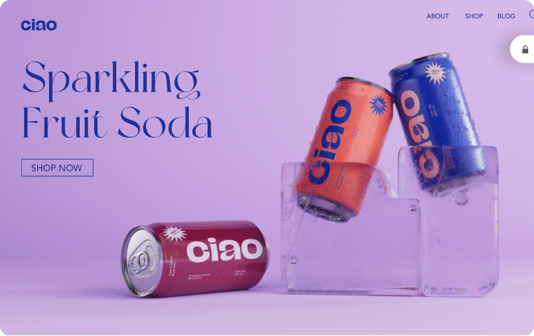
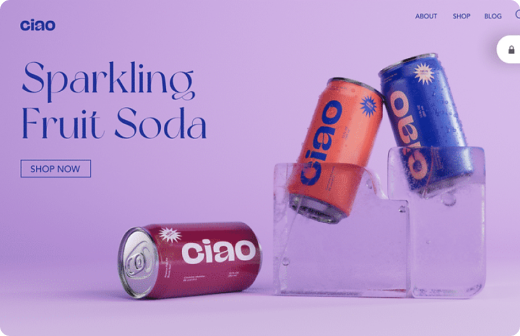
detail page changes

diff --git a/src/App.scss b/src/App.scss
@@ -212,7 +212,7 @@ h1,h2,h3,h4,h5,h6{
 
 .slick-slide img {
   display: block;
-  height: 260px;
+  height: auto;
   width: 534px !important;
   padding-left: 13px;
   margin-left: -10px;
@@ -304,7 +304,7 @@ h1,h2,h3,h4,h5,h6{
 
 @media screen and (max-width:500px) {
   .slick-slide img{
-    height: 200px;
+    // height: 200px;
   }
 }
 
